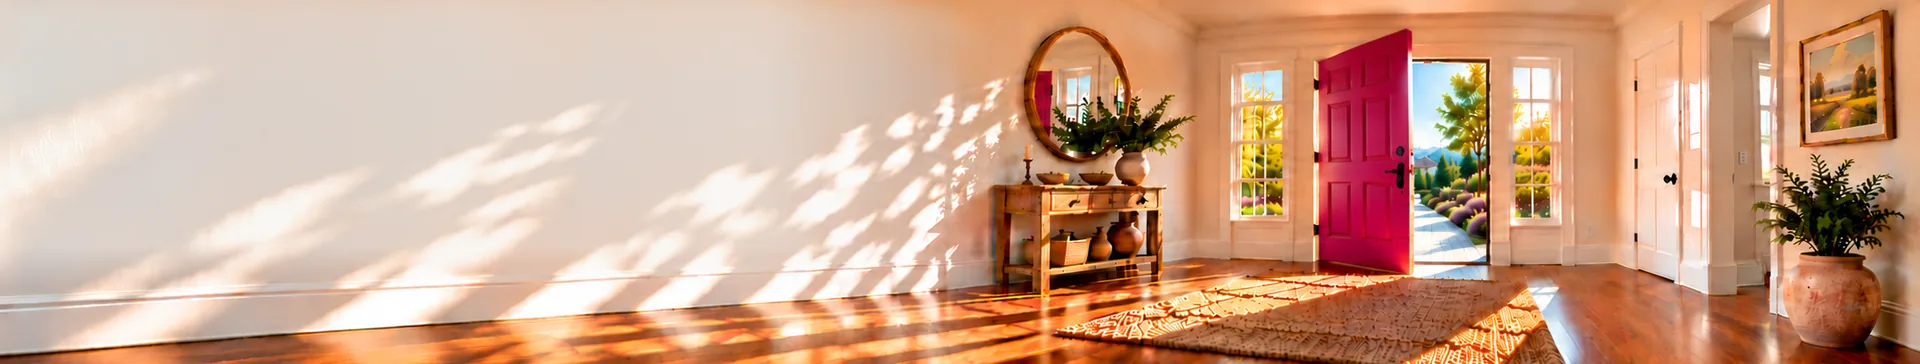
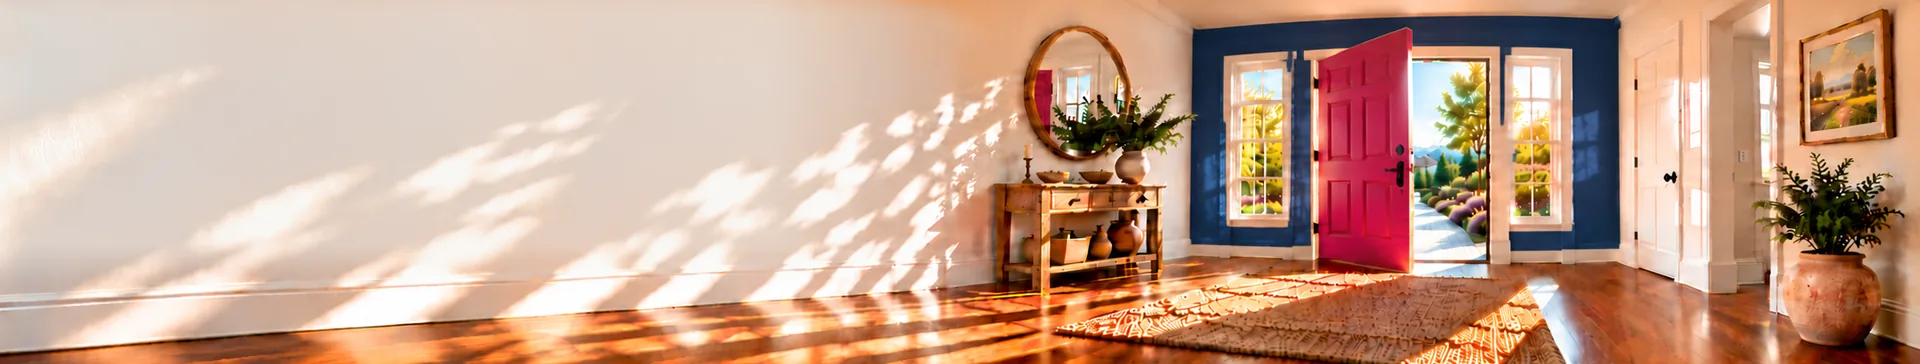
Homepage hero 2031: navy accent wall behind the door (owner's idea)
Owner's ChatGPT regeneration with a navy wall behind the magenta door, echoing
the logo's blue A. Same crops and the same 55% cream blend on the left wall;
tagline contrast 7.1:1 minimum, 7.6:1 median.

Claude-Session: https://claude.ai/code/session_01EfD7Mnybftg6QaoMS7j2Y4

diff --git a/src/pages/RPPHomeV3.tsx b/src/pages/RPPHomeV3.tsx
@@ -86,11 +86,13 @@ const RPPHomeV3 = () => {
           <img
             id="rpp-hero-image"
             /* rpp-hero-2031 (Oct 18, 2026): the owner's new entryway render with
-               a magenta door matching the logo. Same 1920x364 band and the same
+               a magenta door matching the logo, and (same evening, his idea) a navy
+               accent wall behind the door to echo the logo's A — regenerated in
+               ChatGPT so the wall carries the room's light rather than a flat fill. Same 1920x364 band and the same
                mobile crops. The render was warmer than 2030, so the left wall
                (the tagline's column) was blended 55% toward cream, feathered out
                before the mirror; navy on it measures 7.25:1 at its weakest
-               (2030 was 5.2:1). Re-measure if the artwork changes again.
+               (2030 was 5.2:1; 7.1:1 with the navy-wall render). Re-measure if the artwork changes again.
 
                rpp-hero-2030 (Oct 4, 2026): the same entryway photograph, recut
                by the owner with more headroom — the lantern, ceiling line,
